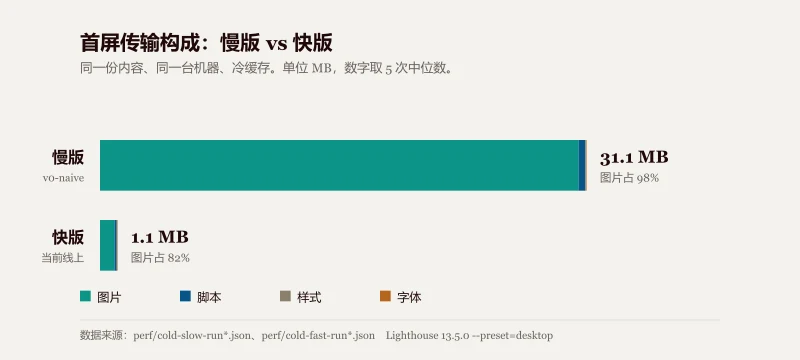
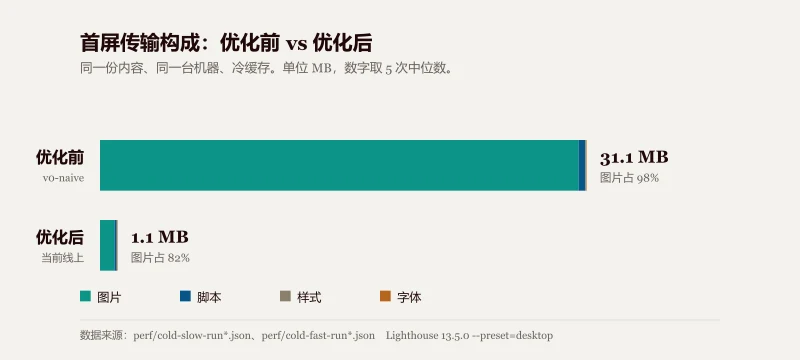
feat(site): 优化后/优化前取代快版慢版；项目页去掉冗余标题、日期改 2026.10；关于加邮箱；去掉移动端表述与类型文开头统计段

Changed region(s): [[0.2812, 0.0917, 0.4688, 0.1528], [0.0312, 0.3972, 0.125, 0.4583], [0.0312, 0.6417, 0.125, 0.7028]]

diff --git a/src/views/ProjectListView.vue b/src/views/ProjectListView.vue
@@ -7,17 +7,11 @@ const THUMB_SIZES = '(max-width: 899px) calc(100vw - 48px), 380px'
 </script>
 
 <template>
-  <section class="head">
-    <div class="wrap">
-      <div class="kicker">项目</div>
-      <h1>一个项目</h1>
-      <p class="lede">
-        真正能点开、能被验证的只有这一个：站点自己。工作里的低代码平台和后台系统写在简历上，面试官问到再讲。
-      </p>
-    </div>
-  </section>
-
+  <!-- 站上只有一个项目，再摆一句「一个项目」的大标题纯属自说自话。
+       但页面仍然需要一个 h1（读屏软件和搜索引擎靠它判断这一页是什么），
+       所以留一个只有读屏软件能看到的标题，视觉上直接进内容。 -->
   <section class="list">
+    <h1 class="sr-only">项目</h1>
     <div class="wrap">
       <article v-for="p in projects" :key="p.slug" class="prow">
         <div class="thumb">
@@ -55,30 +49,21 @@ const THUMB_SIZES = '(max-width: 899px) calc(100vw - 48px), 380px'
 <style scoped lang="scss">
 @use '@/styles/breakpoints' as *;
 
-.head {
-  padding: 72px 0 48px;
-  border-bottom: 1px solid var(--rule);
-}
-
-.kicker {
-  margin-bottom: 18px;
-}
-
-h1 {
-  font-size: clamp(30px, 4vw, 42px);
-  letter-spacing: -0.02em;
-}
-
-.lede {
-  margin: 20px 0 0;
-  max-width: 36em;
-  color: var(--muted);
-  font-size: 17.5px;
-  line-height: 1.85;
+/* 只有读屏软件拿得到的标题：视觉上不占位，但 h1 还在 */
+.sr-only {
+  position: absolute;
+  width: 1px;
+  height: 1px;
+  padding: 0;
+  margin: -1px;
+  overflow: hidden;
+  clip: rect(0 0 0 0);
+  white-space: nowrap;
+  border: 0;
 }
 
 .list {
-  padding: 8px 0 56px;
+  padding: 48px 0 56px;
 }
 
 .prow {

diff --git a/src/layouts/DefaultLayout.vue b/src/layouts/DefaultLayout.vue
@@ -63,7 +63,7 @@ watch(
         </RouterLink>
       </nav>
 
-      <!-- 快版 / 慢版开关不在导航栏里 —— 它固定在导航栏下方的右上角，
+      <!-- 优化后 / 优化前开关不在导航栏里 —— 它固定在导航栏下方的右上角，
            见模板末尾的 <VersionSwitch /> 与 src/styles/version-switch.css。
            放进导航栏会挤掉 首页/文章 这些真链接，观感也差。 -->
 
@@ -97,7 +97,7 @@ watch(
     </nav>
   </header>
 
-  <!-- 快版 / 慢版开关。fixed 定位在导航栏下方右上角，所以放在文档哪个位置都不影响视觉 ——
+  <!-- 优化后 / 优化前开关。fixed 定位在导航栏下方右上角，所以放在文档哪个位置都不影响视觉 ——
        放这儿是为了让它只出现一次，且语义上属于「站点外壳」而不是某个页面。 -->
   <VersionSwitch />
 
@@ -168,8 +168,9 @@ watch(
   }
 }
 
-/* 快版 / 慢版开关的样式不在这里 —— 它在 src/styles/version-switch.css，
-   一份文件同时给快版（Vue）和慢版（部署时注入）用，两版必须长得一模一样。 */
+/* 开关样式不在这里 —— 它在 src/styles/version-switch.css。
+   两版共用同一份 CSS（快版 VersionSwitch.vue / 慢版 VersionSwitch.naive.vue），
+   因为它们是对照实验里的同一个控件，长得不一样就等于引入了新变量。 */
 
 .auth {
   display: flex;

diff --git a/src/data/projects.ts b/src/data/projects.ts
@@ -47,7 +47,7 @@ export const projects: ProjectMeta[] = [
     summary:
       '一个纯前端的技术博客：Markdown 在构建时编译成页面，评论区用乐观更新保证即时反馈，图片、缓存与分包策略都做过实测对照。',
     role: '独立开发',
-    period: '2026.02 - 至今',
+    period: '2026.10 - 至今',
     stack: ['Vue 3', 'TypeScript', 'Vite', 'Pinia', 'Markdown-it', 'Shiki'],
     thumb: '/images/covers/forest-sun.webp',
     to: '/projects/program2026',
@@ -88,7 +88,7 @@ export const projects: ProjectMeta[] = [
         heading: '已知的不足',
         bullets: [
           '托管层动不了：GitHub Pages 自带 CDN、HTTP/2 与压缩，这几项没有「开 / 不开」两个版本可比，所以文档里标的是「无基线」，不算成绩。',
-          '移动端没有做过完整测量（阶段 3 明确只测桌面），只有一次 390×844 的抽样验证。',
+          '全部数据来自桌面实验室（Lighthouse 桌面预设），不是真实用户数据。',
           '评论与登录依赖第三方云服务，离线环境下不可用。',
         ],
       },

diff --git a/src/components/VersionSwitch.naive.vue b/src/components/VersionSwitch.naive.vue
@@ -16,8 +16,8 @@ const fastHref = import.meta.env.BASE_URL.replace(/naive\/$/, '')
 </script>
 
 <template>
-  <div class="vsw" role="group" aria-label="切换快版 / 慢版">
-    <a :href="fastHref">快版</a>
-    <span class="on" aria-current="true">慢版</span>
+  <div class="vsw" role="group" aria-label="切换优化后 / 优化前">
+    <a :href="fastHref">优化后</a>
+    <span class="on" aria-current="true">优化前</span>
   </div>
 </template>

diff --git a/src/components/VersionSwitch.vue b/src/components/VersionSwitch.vue
@@ -13,8 +13,8 @@ const naiveHref = `${import.meta.env.BASE_URL}naive/`
 </script>
 
 <template>
-  <div class="vsw" role="group" aria-label="切换快版 / 慢版">
-    <span class="on" aria-current="true">快版</span>
-    <a :href="naiveHref">慢版</a>
+  <div class="vsw" role="group" aria-label="切换优化后 / 优化前">
+    <span class="on" aria-current="true">优化后</span>
+    <a :href="naiveHref">优化前</a>
   </div>
 </template>

diff --git a/src/components/CommentSection.vue b/src/components/CommentSection.vue
@@ -218,7 +218,7 @@ function formatTime(iso: string): string {
     </div>
 
     <div v-else class="needlogin">
-      <p>评论需要先登录，这样每条留言都有主人，也能自己删掉自己的。</p>
+      <p>评论需要先登录。</p>
       <RouterLink :to="loginLink">
         <el-button type="primary" plain>去登录 / 注册</el-button>
       </RouterLink>

diff --git a/src/views/AboutView.vue b/src/views/AboutView.vue
@@ -8,6 +8,7 @@
 
 const contact = [
   { label: 'GitHub', value: 'github.com/Rongon', href: 'https://github.com/Rongon' },
+  { label: '邮箱', value: '13035813904@163.com', href: 'mailto:13035813904@163.com' },
 ]
 
 const skills: { group: string; items: string[] }[] = [

diff --git a/content/posts/lighthouse-50-reports.md b/content/posts/lighthouse-50-reports.md
@@ -12,7 +12,7 @@ cover: /images/photos/coast-02.webp
 
 那时候我以为是工具坏了。后来才明白：**它每一次给你的都是一个估计值，不是一个测量值。**
 
-同一份代码，同一台机器，连跑五次，性能分能在 38 到 52 之间跳（慢版那一批），也能在 94 到 97 之间跳（快版那一批）。差的不是代码，是每次跑的时候机器和网络的状态。
+同一份代码，同一台机器，连跑五次，性能分能在 38 到 52 之间跳（优化前那一批），也能在 94 到 97 之间跳（优化后那一批）。差的不是代码，是每次跑的时候机器和网络的状态。
 
 所以这个仓库的 `perf/` 目录里现在躺着 50 份 JSON，一共 44.6 MB。这篇文章说的是为什么需要这么多。
 
@@ -25,14 +25,14 @@ cover: /images/photos/coast-02.webp
 | 代码分割那一版（3 次） | 95 / 93 / 91 | 4 |
 | 按需引入那一版（3 次） | 90 / 98 / 97 | 8 |
 | 图片质量那一版（3 次） | 95 / 89 / 94 | 6 |
-| 冷缓存快版（5 次） | 95 / 94 / 94 / 97 / 95 | 3 |
-| 冷缓存慢版（5 次） | 38 / 46 / 46 / 52 / 43 | 14 |
+| 冷缓存优化后 | 95 / 94 / 94 / 97 / 95 | 3 |
+| 冷缓存优化前 | 38 / 46 / 46 / 52 / 43 | 14 |
 
 「按需引入」那一批最能说明问题：90 和 98 是同一天、同一个构建、同一台机器跑出来的，中间只隔了几分钟。如果我只跑一次，我会得出「这一项让分数从 93 掉到 90」或者「涨到 98」这两种完全相反的结论 —— 而它们都不是真的。
 
 FCP 也一样。同一份构建，我见过 630 ms，也见过 1,314 ms，差一倍。
 
-![同一份代码连跑 5 次，快版与慢版的分数分布](/images/tech/perf-score-runs.webp)
+![同一份代码连跑 5 次，优化后与优化前的分数分布](/images/tech/perf-score-runs.webp)
 
 ## 方差从哪来
 

diff --git a/content/posts/first-screen-30mb-to-1mb.md b/content/posts/first-screen-30mb-to-1mb.md
@@ -34,7 +34,7 @@ cover: /images/covers/mountains.webp
 1. **只测构建产物，不测 `pnpm dev`**。开发服务器不做压缩、不做 tree shaking，那里测出来的数字没有意义。
 2. **每次跑三遍，取中位数**。单次分数会跳，后面有图。
 3. **冷缓存**。每次跑新建一个 Chrome 用户目录，跑完删掉。
-4. **只测桌面**（`--preset=desktop`）。移动端我没有测，这是这篇的边界。
+4. **只测桌面**（`--preset=desktop`）。这一篇的边界就到这里。
 
 体积单位用十进制 MB（1 MB = 1000 KB）。Lighthouse 报告里显示的是 KiB（1 KiB = 1024 B），同一份数据换了个写法。
 
@@ -94,7 +94,7 @@ await sharp(src)
 
 给非首屏图片加 `loading="lazy"`，桌面端首屏传输量**一点没变**。
 
-原因很实在：Chrome 的懒加载阈值大约 1250px，而这个站首屏的 21 张图全在阈值以内，浏览器照下不误。只有在手机上（390×844）才真的生效 —— 实测只请求了 9 张。
+原因很实在：Chrome 的懒加载阈值大约 1250px，而这个站首屏的 21 张图全在阈值以内，浏览器照下不误。所以这一项在桌面端省了 0 字节。
 
 知道一项优化在什么条件下无效，比知道它有效难。所以这条我照实记着。
 

diff --git a/content/posts/preload-ab-test.md b/content/posts/preload-ab-test.md
@@ -69,7 +69,7 @@ FCP 两边都是 743 ms，一动不动。
 
 preload 的代价是「无条件提前下载」。所以三种情况下它是负资产：
 
-1. **条件不成立的时候。** 窄屏预加载 1200 档的题图，等于让手机多下 400 KB。所以要加 `media`。
+1. **条件不成立的时候。** 窄屏预加载 1200 档的题图，等于让浏览器多下一张用不上的图。所以要加 `media`。
 2. **这一项不是关键路径。** 字体有 400 和 700 两份，首页只用到 400；把 700 也 preload 就是白白多 29 KB。
 3. **优先级会打架的时候。** 如果一个页面有五六条 preload，浏览器反而不知道先下哪个，效果可能不如不写。
 

diff --git a/content/posts/types-saved-me-four-times.md b/content/posts/types-saved-me-four-times.md
@@ -8,10 +8,6 @@ readingMinutes: 7
 cover: /images/covers/night-sky.webp
 ---
 
-先摆一个数字：这个项目里，`Pick`、`Omit`、`ReturnType`、`Extract` 的用量都是 **0**。`Record` 用了 7 次，`Partial` 3 次。
-
-所以这篇文章不是「五个高级类型工具」。那种文章的问题是：里面没有一个例子是作者真踩过的坑。
-
 这篇讲的是**类型在这个项目里到底拦住了什么**，以及它在哪两个地方一声不响地放过了我。
 
 ![类型能证明的三层：形状、契约、业务](/images/tech/types-three-layers.webp)
